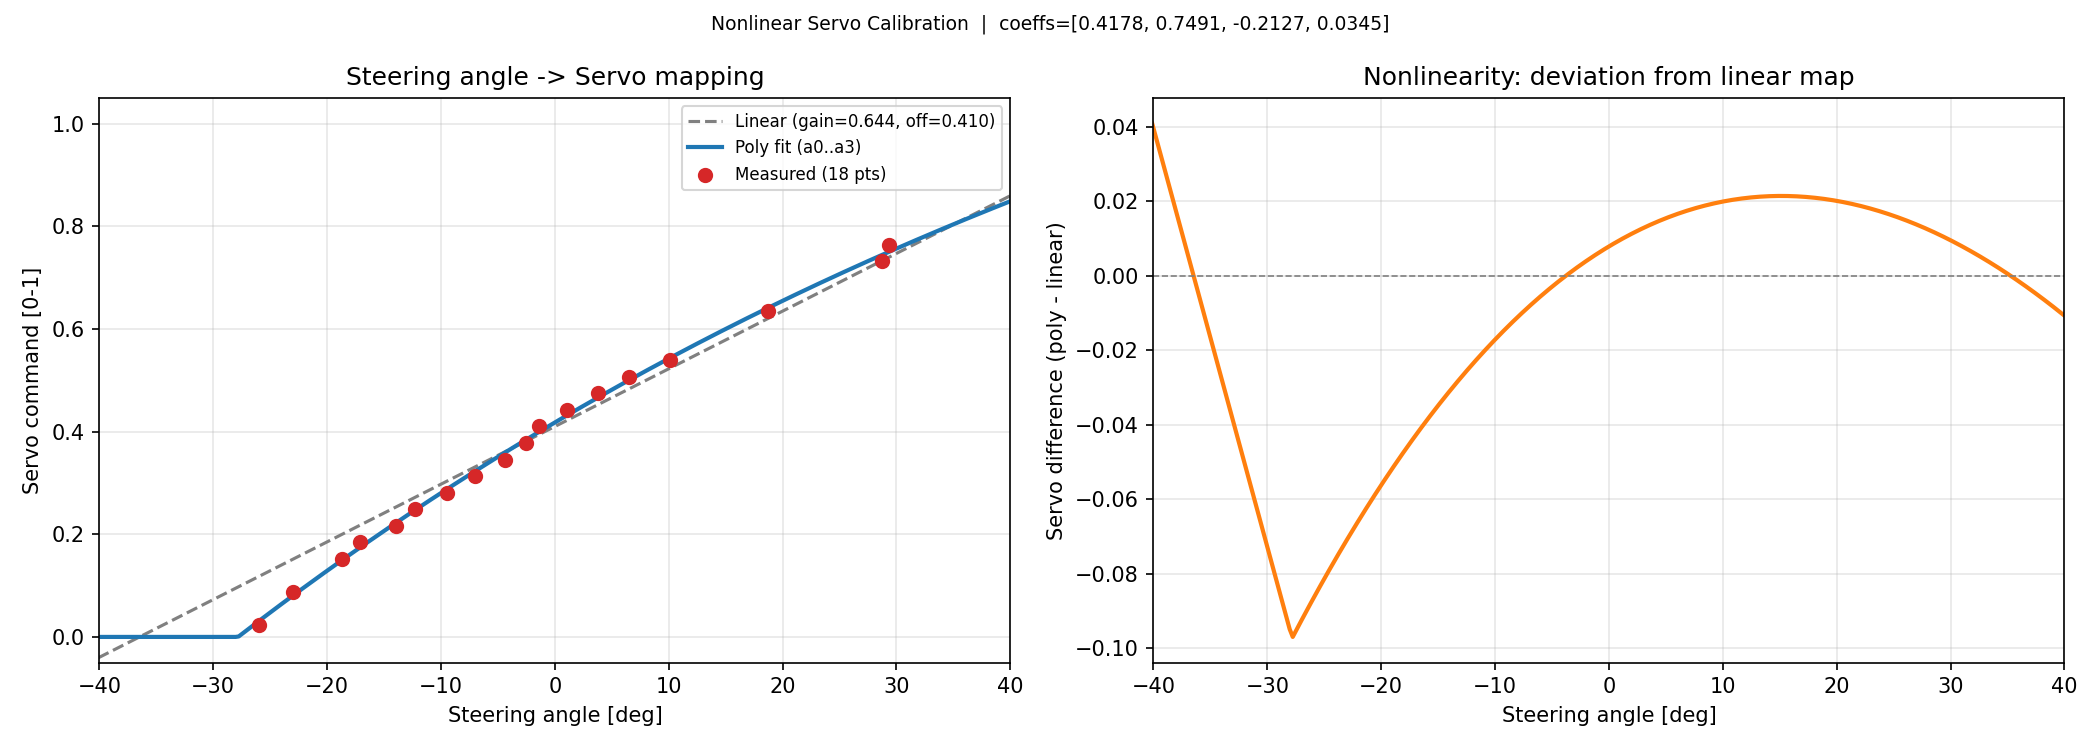
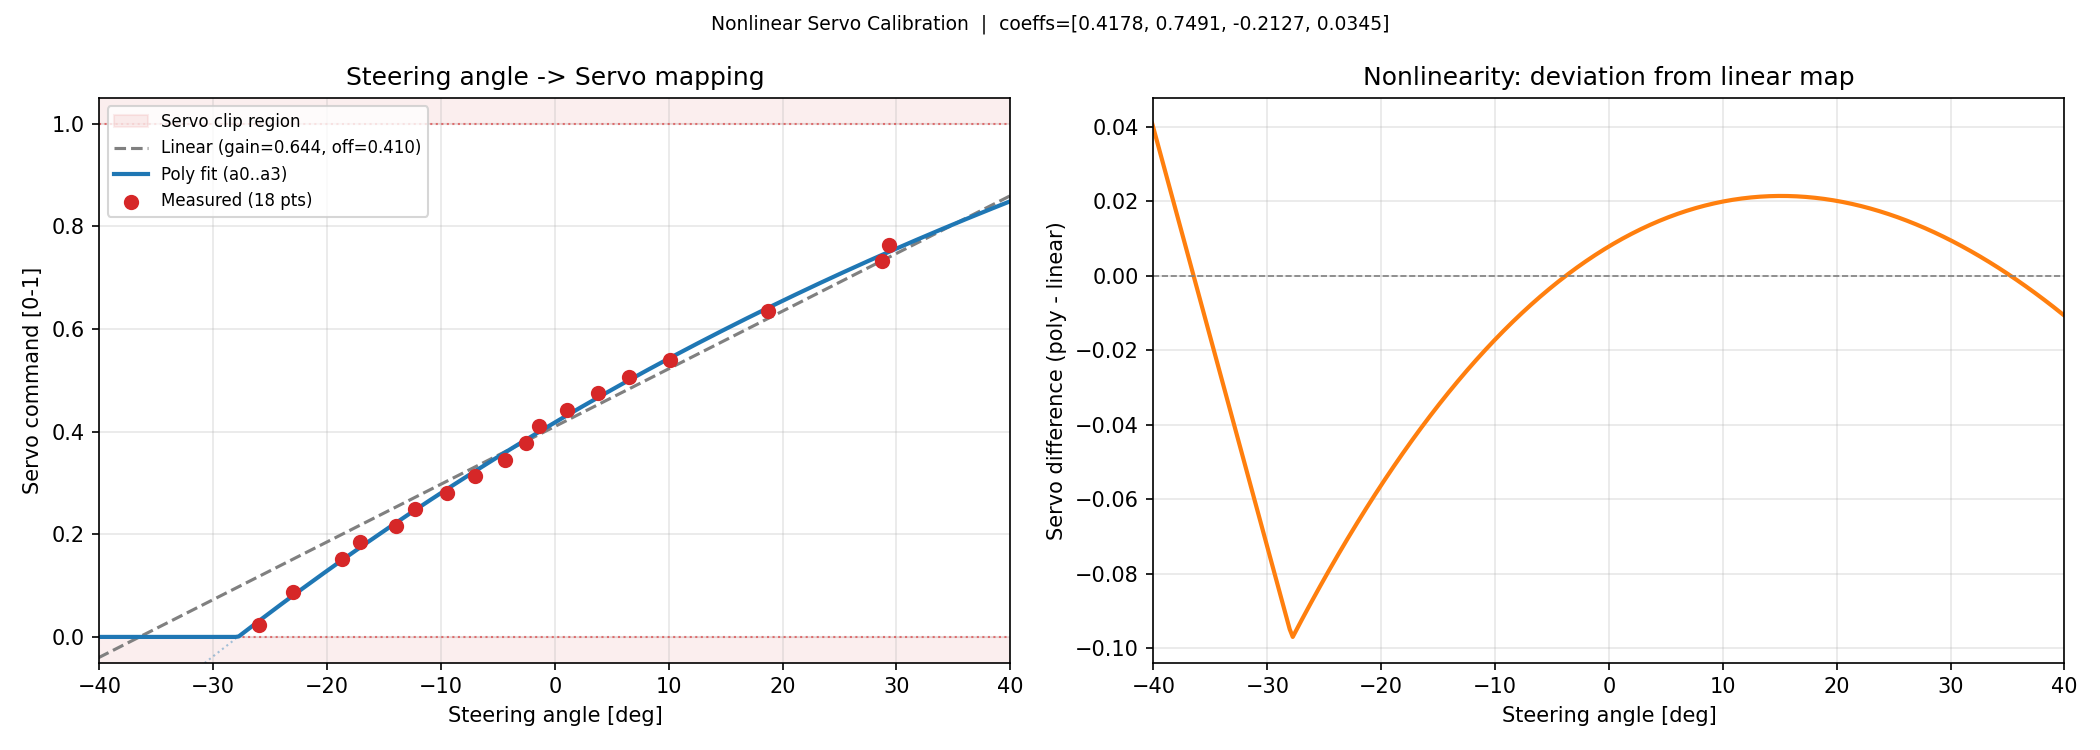
fit_steering_poly: add servo clip region visualization to mapping plot

Changed region(s): [[0.3095, 0.1227, 0.4952, 0.2453], [0.0619, 0.1533, 0.2167, 0.3067]]

diff --git a/stack_master/scripts/fit_steering_poly.py b/stack_master/scripts/fit_steering_poly.py
@@ -173,7 +173,8 @@ def _fit_poly(deltas_actual, servos_target, degree):
     return coeffs_lo, rms, deltas_actual, servos_target
 
 
-def _save_mapping_plot(coeffs, d_measured, s_measured, offset, gain, png_path):
+def _save_mapping_plot(coeffs, d_measured, s_measured, offset, gain, png_path,
+                       servo_clip_min=0.0, servo_clip_max=1.0):
     """Plot nonlinear poly vs linear map vs measured data points and save as PNG."""
     try:
         import matplotlib
@@ -185,10 +186,10 @@ def _save_mapping_plot(coeffs, d_measured, s_measured, offset, gain, png_path):
 
     d_dense = np.linspace(-0.7, 0.7, 300)
 
-    # poly curve
+    # poly curve (before and after clip for visual comparison)
     coeffs_hi = np.array(coeffs[::-1])  # highest-degree first for np.polyval
-    s_poly = np.polyval(coeffs_hi, d_dense)
-    s_poly = np.clip(s_poly, 0, 1)
+    s_poly_raw = np.polyval(coeffs_hi, d_dense)
+    s_poly = np.clip(s_poly_raw, servo_clip_min, servo_clip_max)
 
     # linear map
     s_linear = gain * d_dense + offset
@@ -197,13 +198,23 @@ def _save_mapping_plot(coeffs, d_measured, s_measured, offset, gain, png_path):
 
     # --- left: servo = f(delta) ---
     ax = axes[0]
+    # servo clip region (shaded)
+    ax.axhspan(servo_clip_max, 1.1, color="tab:red", alpha=0.08, label="Servo clip region")
+    ax.axhspan(-0.1, servo_clip_min, color="tab:red", alpha=0.08)
+    ax.axhline(servo_clip_max, color="tab:red", linestyle=":", linewidth=1, alpha=0.6)
+    ax.axhline(servo_clip_min, color="tab:red", linestyle=":", linewidth=1, alpha=0.6)
+
     ax.plot(np.rad2deg(d_dense), s_linear, "--", color="gray", linewidth=1.5, label="Linear (gain=%.3f, off=%.3f)" % (gain, offset))
     ax.plot(np.rad2deg(d_dense), s_poly, "-", color="tab:blue", linewidth=2, label="Poly fit (a0..a%d)" % (len(coeffs) - 1))
+    # show the unclipped poly as faint dashed where it exceeds clip
+    clip_mask = (s_poly_raw < servo_clip_min) | (s_poly_raw > servo_clip_max)
+    if np.any(clip_mask):
+        ax.plot(np.rad2deg(d_dense[clip_mask]), s_poly_raw[clip_mask], ":", color="tab:blue", linewidth=1, alpha=0.4)
     ax.scatter(np.rad2deg(np.array(d_measured)), np.array(s_measured), c="tab:red", s=40, zorder=5, label="Measured (%d pts)" % len(d_measured))
     ax.set_xlabel("Steering angle [deg]")
     ax.set_ylabel("Servo command [0-1]")
     ax.set_title("Steering angle -> Servo mapping")
-    ax.legend(fontsize=8)
+    ax.legend(fontsize=8, loc="upper left")
     ax.grid(True, alpha=0.3)
     ax.set_xlim([-40, 40])
     ax.set_ylim([-0.05, 1.05])
@@ -376,8 +387,11 @@ def fit_from_bags(bag_dir, vesc_yaml, wheelbase, poly_degree):
           "  enable_nonlinear_servo_gain: true\nin the same file when ready." % vesc_yaml)
 
     # ### HJ : save visualization of the nonlinear mapping
+    servo_min = float(vdata.get("vesc_driver", {}).get("servo_min", 0.0))
+    servo_max = float(vdata.get("vesc_driver", {}).get("servo_max", 1.0))
     png_path = os.path.join(os.path.dirname(vesc_yaml), "nonlinear_servo_mapping.png")
-    _save_mapping_plot(coeffs, d_sorted, s_sorted, offset, gain, png_path)
+    _save_mapping_plot(coeffs, d_sorted, s_sorted, offset, gain, png_path,
+                       servo_clip_min=servo_min, servo_clip_max=servo_max)
 
     return 0
 
